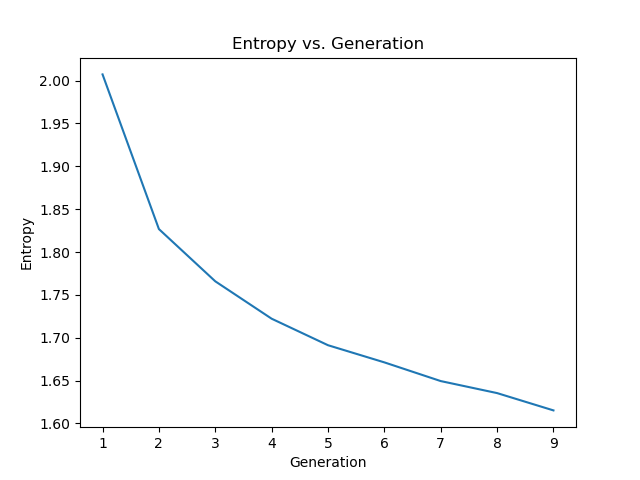
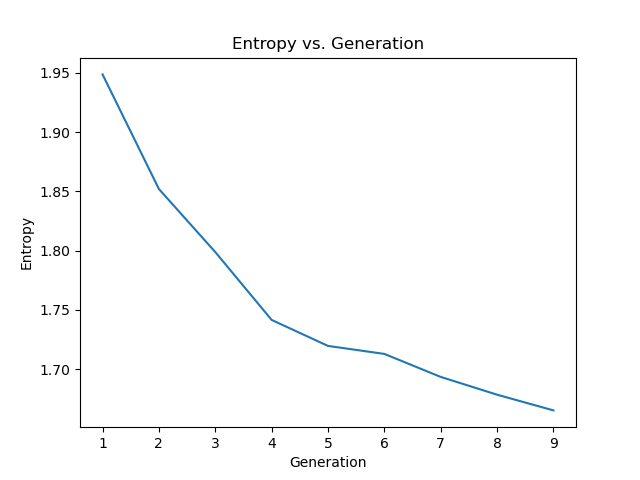
made changes in hyperparameters and game generation

diff --git a/alphazero_gpu/generate_games.py b/alphazero_gpu/generate_games.py
@@ -2,7 +2,7 @@ import random
 from nn_init import NeuralNetwork, load_model
 from mcts import mcts_mp
 from board import Board
-from board_helper import horizontal_mirror_image, rot_90_cw
+from board_helper import horizontal_mirror_image, rot_90_cw, get_points
 import time
 import os
 import globals
@@ -65,10 +65,6 @@ import matplotlib.pyplot as plt
 #     return return_game
 
 # multiprocessing simulating games
-
-# def count_boards():
-#     return sum(1 for o in gc.get_objects() if isinstance(o, Board))
-
 def generate_games(parameters):
     identifier, control_model, experimental_model, num_simulations, num_games, exploration_constant, epsilon = parameters
     print("Game Gen " + str(identifier) + " is starting")
@@ -85,7 +81,6 @@ def generate_games(parameters):
     boards_and_identifier = [(i, Board(initial_player_board, initial_opponent_board, current_player)) for i in range(num_games)]
     games = [[] for _ in range(num_games)]
     dataset = []
-    p = 3125
     move_num = 0
     while boards_and_identifier:
         start = time.perf_counter()
@@ -93,16 +88,13 @@ def generate_games(parameters):
         for i, board in boards_and_identifier:
             boards_only.append(board)
 
-        p //= 5
         if current_player == control_player:
             new_boards = mcts_mp(boards_only, control_model, len(boards_only), False, False, num_simulations, exploration_constant)
         else:
             new_boards = mcts_mp(boards_only, experimental_model, len(boards_only), False, False, num_simulations, exploration_constant)
 
         for i, board in boards_and_identifier:
-            # prevent early game positions from flooding the dataset
-            if random.randint(0, p) == p:
-                games[i].append((board.player, board.player_board, board.opponent_board, board.get_full_policy(), board.sum_eval / board.visited_count))
+            games[i].append((board.player, board.player_board, board.opponent_board, board.get_full_policy(), board.sum_eval / board.visited_count))
 
         current_player = 1 - current_player
         tmp_boards_and_identifier = []
@@ -111,16 +103,17 @@ def generate_games(parameters):
             new_board = Board(player_board, opponent_board, current_player)
             if new_board.game_ends():
                 game_winner = new_board.get_winner()
-                # weight full games more in later generations (make epsilon closer to 1)
                 for player, player_board, opponent_board, policy, value_mcts in games[identifier]:
                     if policy[0] == -1:
                         # indicates a skip turn and not to add in dataset
                         continue
                     winner = game_winner * (1 if player == current_player else -1)
-                    # return_game.append((position.player_board, position.opponent_board, policy, value_mcts))
-                    # return_game.append((position.player_board, position.opponent_board, policy, winner))
-                    # print((value_mcts + winner) / 2)
-                    dataset.append((player_board, opponent_board, policy, (1 - epsilon) * value_mcts + epsilon * winner))
+                    if epsilon == 0.0 and get_points(player_board) + get_points(opponent_board) > 50:
+                        # used in nnue distillation
+                        # this is done to reduce noise by cutting highly tactical (and noisy) positions
+                        pass
+                    else:
+                        dataset.append((player_board, opponent_board, policy, (1 - epsilon) * value_mcts + epsilon * winner))
             else:
                 tmp_boards_and_identifier.append((identifier, new_board))
 
@@ -152,7 +145,7 @@ def main():
 
     torch.set_num_threads(1)
 
-    model_numbers = [75, 93, 160, 163]
+    model_numbers = [54, 63, 66]
     # open('datasets/features.bin', 'wb')
     # open('datasets/values.txt', 'w')
     while True:
@@ -166,12 +159,12 @@ def main():
         experimental_model.eval()
         control_model.share_memory()
         experimental_model.share_memory()
-        num_games_to_generate = 512
+        num_games_to_generate = 2048
         start = time.perf_counter()
-        inference_batch_size = 64
-        num_simulations = 600
-        exploration_constant = math.sqrt(2)
-        jobs = [(i, control_model, experimental_model, num_simulations, inference_batch_size, exploration_constant, 0.05) for
+        inference_batch_size = 256
+        num_simulations = 800
+        exploration_constant = 0.8
+        jobs = [(i, control_model, experimental_model, num_simulations, inference_batch_size, exploration_constant, 0.0) for
                 i in range(num_games_to_generate // inference_batch_size)]
 
         print("Generating Games...")

diff --git a/alphazero_gpu/simulate_games.py b/alphazero_gpu/simulate_games.py
@@ -10,7 +10,7 @@ import os
 from mcts import mcts_mp
 from board import Board
 import board_helper as bh
-from nn_init import NeuralNetwork, load_model
+from nn_init import NeuralNetwork, NeuralNetwork2, load_model
 from multiprocessing_helper import execute_gpu
 
 def simulate_game(parameters):
@@ -28,10 +28,14 @@ def simulate_game(parameters):
     draws, control_wins, experimental_wins = 0, 0, 0
     move_num = 0
     while boards:
+        # exploration_constant_multiplier = 3.0
+        # if move_num >= 20:
+        #     exploration_constant_multiplier = max(0.8, 3.0 - (move_num - 20) * 0.07)
+        exploration_constant_multiplier = 0.8
         if current_player == control_player:
-            new_boards = mcts_mp(boards, control_model, len(boards), False, True, num_simulations, exploration_constant)
+            new_boards = mcts_mp(boards, control_model, len(boards), False, True, num_simulations, exploration_constant * exploration_constant_multiplier)
         else:
-            new_boards = mcts_mp(boards, experimental_model, len(boards), False, True, num_simulations, exploration_constant)
+            new_boards = mcts_mp(boards, experimental_model, len(boards), False, True, num_simulations, exploration_constant * exploration_constant_multiplier)
             for board in boards:
                 sum_full_policy += board.get_full_policy()
                 sum_legal_moves += board.legal_moves
@@ -70,7 +74,7 @@ def main():
 
     nn_name_control = input("Enter the control's model name: ")
     nn_name_experimental = input("Enter the experimental's model name: ")
-    control_model = load_model(NeuralNetwork, 'models/model_weights_' + nn_name_control + '.pth')
+    control_model = load_model(NeuralNetwork2, 'models/model_weights_' + nn_name_control + '.pth')
     experimental_model = load_model(NeuralNetwork, 'models/model_weights_' + nn_name_experimental + '.pth')
     control_model.eval()
     experimental_model.eval()
@@ -82,8 +86,8 @@ def main():
     sum_legal_moves = np.zeros(64)
     num_games_to_simulate = int(input("Enter the number of games: "))
     inference_batch_size = 32
-    num_simulations = 200
-    exploration_constant = math.sqrt(2)
+    num_simulations = 100
+    exploration_constant = 0.8
     draws, control_wins, experimental_wins = 0, 0, 0
     jobs = [(i, control_model, experimental_model, num_simulations, inference_batch_size, exploration_constant) for i in range(num_games_to_simulate // inference_batch_size)]
 

diff --git a/alphazero_gpu/nn_init.py b/alphazero_gpu/nn_init.py
@@ -99,6 +99,66 @@ class NeuralNetwork(nn.Module):
 
         return policy, value
 
+class BottleneckBlock2(nn.Module):
+    def __init__(self, channels):
+        super(BottleneckBlock2, self).__init__()
+        self.conv1 = nn.Conv2d(channels, channels, kernel_size=1)
+        self.bn1 = nn.BatchNorm2d(channels)
+
+        self.conv2 = nn.Conv2d(channels, channels, kernel_size=3, padding=1)
+        self.bn2 = nn.BatchNorm2d(channels)
+
+        self.conv3 = nn.Conv2d(channels, channels, kernel_size=1)
+        self.bn3 = nn.BatchNorm2d(channels)
+
+    def forward(self, x):
+        identity = x
+        out = F.relu(self.bn1(self.conv1(x)))
+        out = F.relu(self.bn2(self.conv2(out)))
+        out = self.bn3(self.conv3(out))
+        out += identity  # Skip connection
+        return F.relu(out)
+
+
+class NeuralNetwork2(nn.Module):
+    def __init__(self):
+        super(NeuralNetwork2, self).__init__()
+
+        self.input_conv = nn.Conv2d(2, 64, kernel_size=3, padding=1)
+        self.bn_input = nn.BatchNorm2d(64)
+
+        # 16 bottleneck blocks -> 48 conv layers
+        self.res_blocks = nn.Sequential(
+            *[BottleneckBlock2(64) for _ in range(16)]
+        )
+
+        # Policy head
+        self.policy_conv = nn.Conv2d(64, 2, kernel_size=1)
+        self.policy_fc = nn.Linear(2 * 8 * 8, 64)
+
+        # Value head
+        self.value_conv = nn.Conv2d(64, 1, kernel_size=1)
+        self.value_fc1 = nn.Linear(8 * 8 * 1, 32)
+        self.value_fc2 = nn.Linear(32, 1)
+
+    def forward(self, x):
+        x = F.relu(self.bn_input(self.input_conv(x)))
+
+        x = self.res_blocks(x)
+
+        # Policy head
+        policy = F.relu(self.policy_conv(x))
+        policy = policy.view(policy.size(0), -1)
+        policy = self.policy_fc(policy)
+
+        # Value head
+        value = F.relu(self.value_conv(x))
+        value = value.view(value.size(0), -1)
+        value = F.relu(self.value_fc1(value))
+        value = torch.tanh(self.value_fc2(value))
+
+        return policy, value
+
 class Dataset(torch.utils.data.Dataset):
     def __init__(self, inputs_uint8, policy, value, transform = None):
         self.inputs_uint8 = inputs_uint8

diff --git a/alphazero_gpu/engine.py b/alphazero_gpu/engine.py
@@ -4,6 +4,7 @@ from mcts import mcts
 from board import Board
 import time
 import globals
+import numpy as np
 
 nn_name_control = input("Enter the control's model name: ")
 nn_name_experimental = input("Enter the experimental's model name: ")
@@ -25,11 +26,15 @@ if control_player == 1:
 # 1 - White
 start = time.perf_counter()
 board = Board(initial_player_board, initial_opponent_board, current_player)
+y = 1
 while not board.game_ends():
     if current_player == control_player:
-        (player_board, opponent_board) = mcts(board, control_model, True, True)
+        (player_board, opponent_board) = mcts(board, control_model, True, True, 1600, 0.64)
     else:
-        (player_board, opponent_board) = mcts(board, experimental_model, True, True)
+        (player_board, opponent_board) = mcts(board, experimental_model, True, True, 1600, 0.64)
+    policy = board.mcts_policy
+    x = np.argmax(policy)
+    y *= x
     current_player = 1 - current_player
     board = Board(player_board, opponent_board, current_player)
 

diff --git a/alphazero_gpu/training_loop.py b/alphazero_gpu/training_loop.py
@@ -105,8 +105,8 @@ def training_loop(generation, model, device):
         del discard_dataset
 
     BATCH_SIZE = 128
-    train_dataloader = DataLoader(training_data, batch_size=BATCH_SIZE, shuffle=True, num_workers=4, pin_memory=True)
-    test_dataloader = DataLoader(test_data, batch_size=BATCH_SIZE, shuffle=True, num_workers=4, pin_memory=True)
+    train_dataloader = DataLoader(training_data, batch_size=BATCH_SIZE, shuffle=True)
+    test_dataloader = DataLoader(test_data, batch_size=BATCH_SIZE, shuffle=True)
 
     best_test_loss = float("inf")
     patience = 1
@@ -265,7 +265,6 @@ def main():
             plot_modulo = 3
         if generation >= 30:
             learning_rate = 0.0001
-            num_simulations = 800
             plot_modulo = 3
         bestNN, policy_loss, value_loss, test_loss, patience_exceeded, avg_entropy = training_loop(generation, model, device)
         model = bestNN

diff --git a/alphazero_gpu/board.py b/alphazero_gpu/board.py
@@ -167,7 +167,7 @@ class Board:
             self.mcts_policy.append(child.visited_count / self.visited_count)
 
         points = bh.get_points(self.player_board) + bh.get_points(self.opponent_board)
-        if points < 8:
+        if points < 6:
             selection = random.choices(self.next_boards, k=1)[0]
         elif points < 24 and not gameplay:
             # random selection weighted using policy
